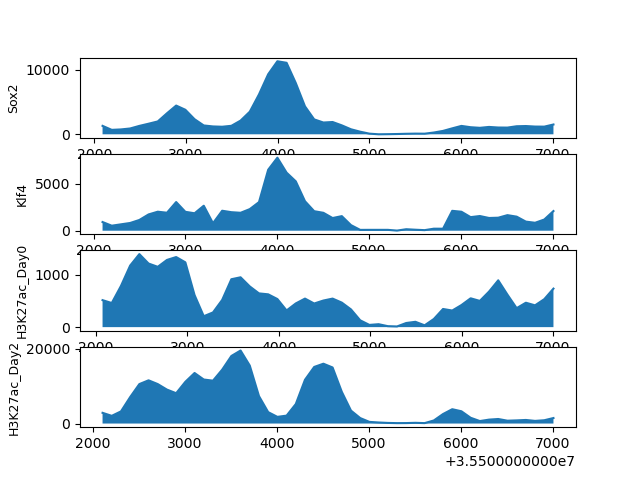
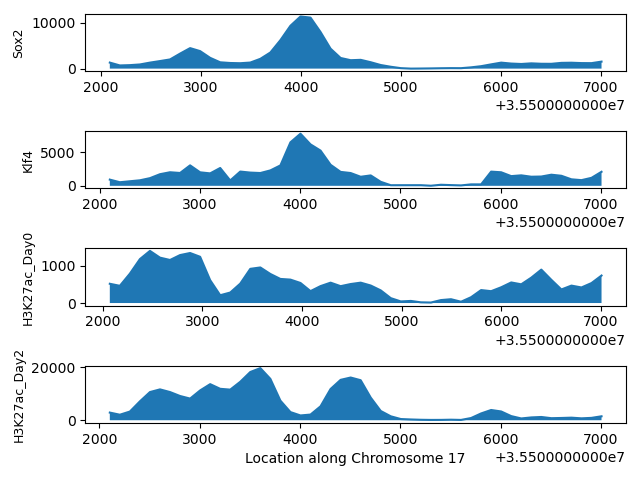
update

diff --git a/week5-homework/assignment5.py b/week5-homework/assignment5.py
@@ -18,8 +18,10 @@ for i, trace in enumerate(traces):
     ax[i].plot(x,y)
     ax[i].fill_between(x,y)
     ax[i].set_ylabel(trace, fontsize = 9)
-plt.savefig('assignment5.png')
+
 plt.subplots_adjust(hspace = 1)
 plt.xlabel("Location along Chromosome 17")
 fig.tight_layout(pad=1.0)
+plt.savefig('assignment5.png')
 plt.show()
+plt.close()
